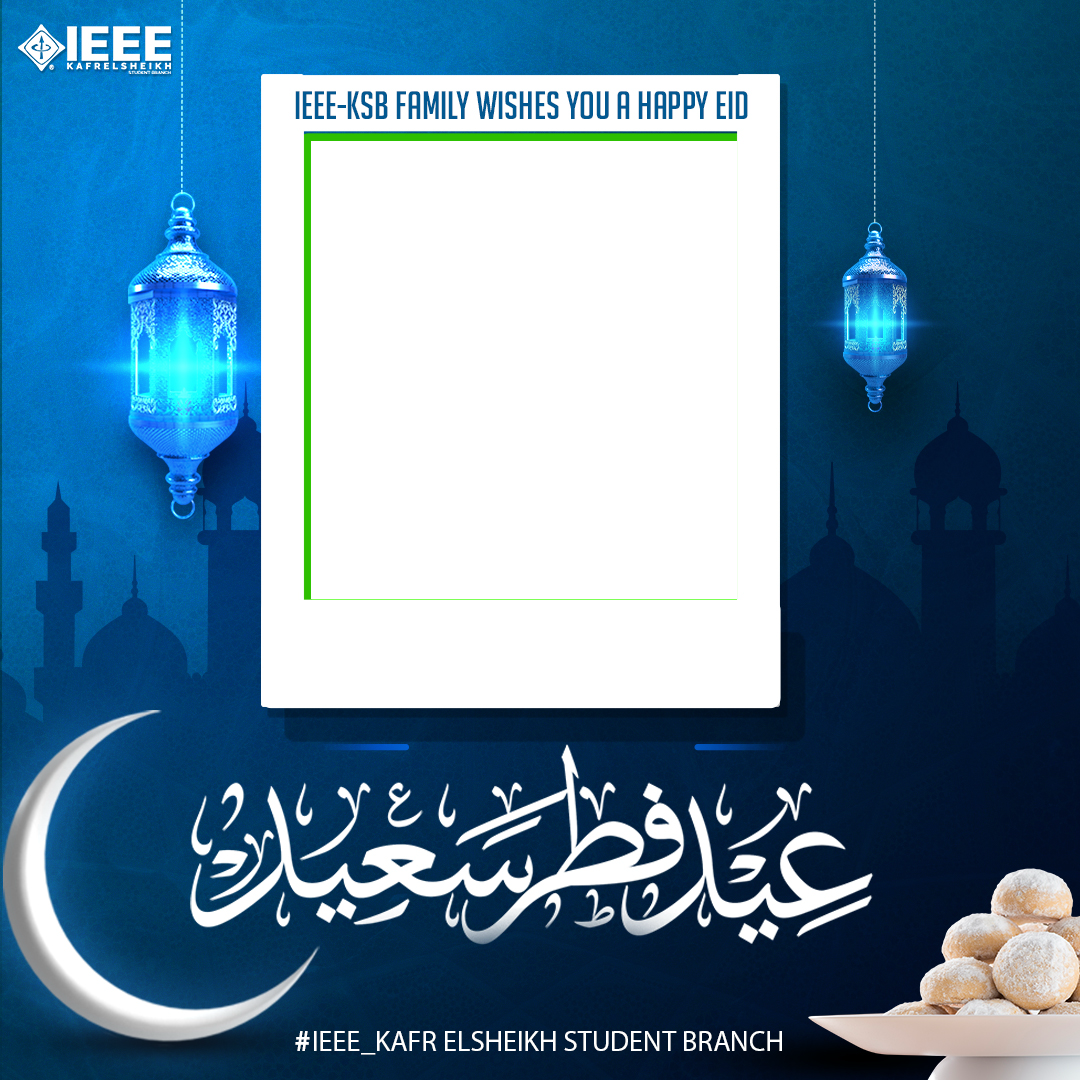
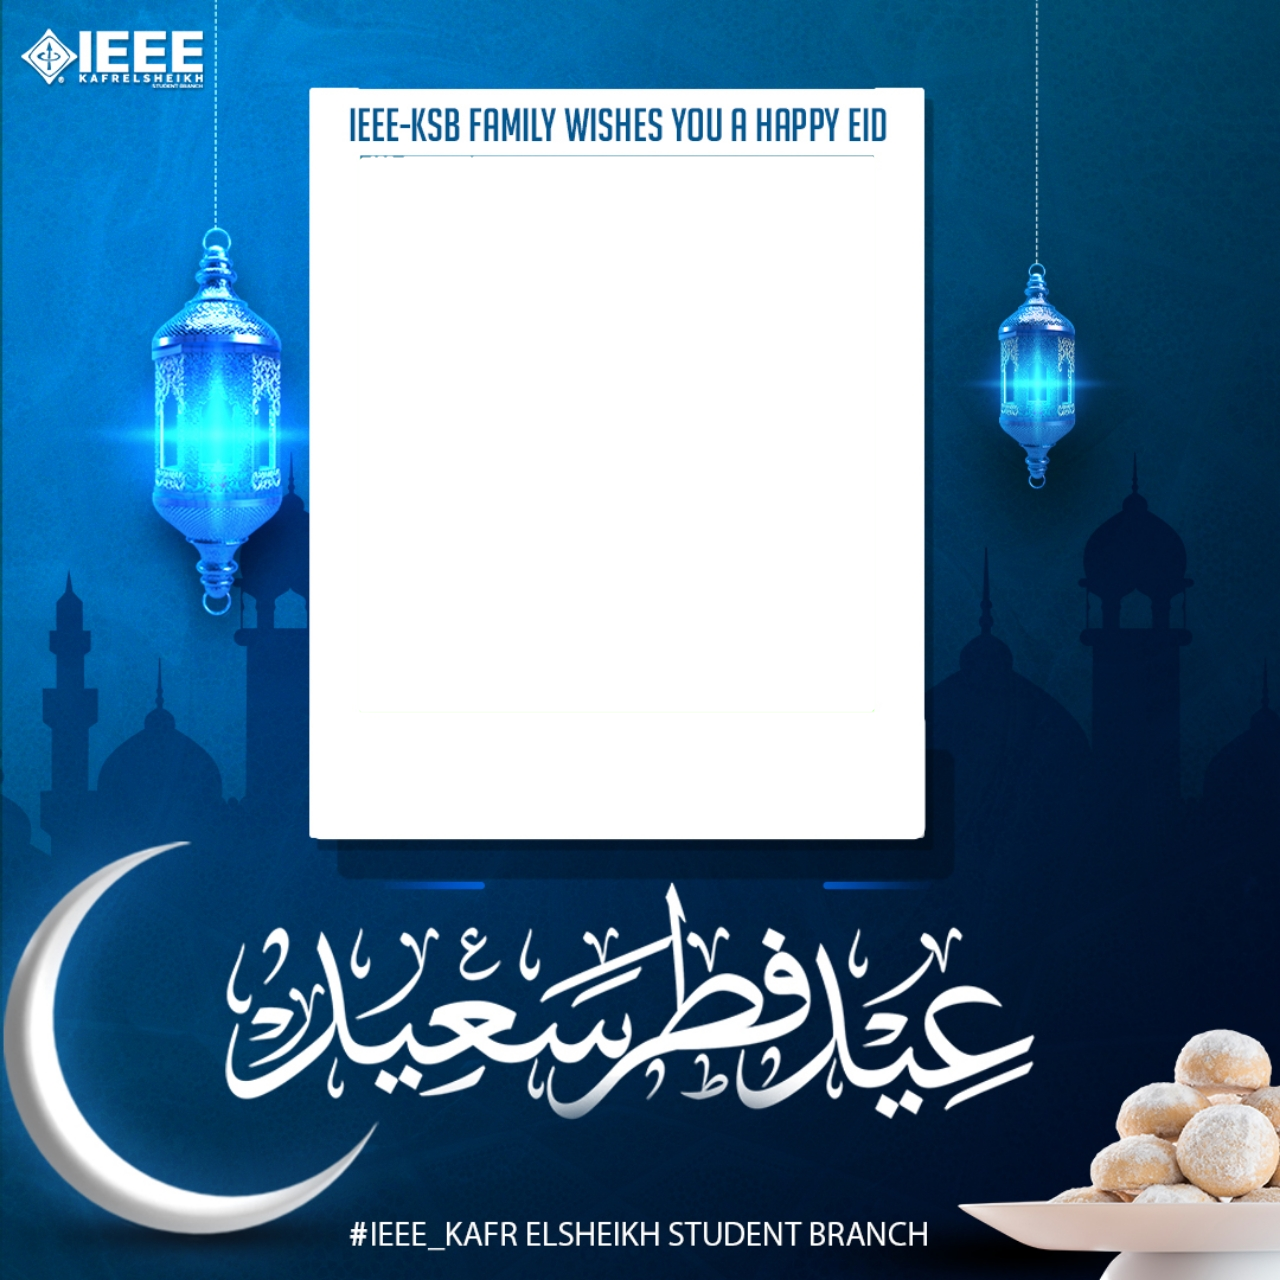
y8t

diff --git a/js/script.js b/js/script.js
@@ -8,8 +8,8 @@ document.addEventListener('DOMContentLoaded', function() {
     const outputImage = document.getElementById('outputImage');
     
     let cropper;
-    const requiredWidth = 445;
-    const requiredHeight = 470;
+    const requiredWidth = 555;
+    const requiredHeight = 605;
 
     uploadInput.addEventListener('change', function(e) {
         const file = e.target.files[0];
@@ -26,24 +26,23 @@ document.addEventListener('DOMContentLoaded', function() {
                 cropper = new Cropper(previewImage, {
                     aspectRatio: requiredWidth / requiredHeight,
                     viewMode: 1,
-                    autoCropArea: 0.8, // مساحة اقتصاص أولية 80%
+                    autoCropArea: 0.8,
                     responsive: true,
                     guides: true,
-                    movable: true, // تمكين الحركة لتعديل الموضع
+                    movable: true,
                     rotatable: false,
-                    scalable: true, // تمكين التكبير/التصغير
-                    zoomable: true, // تمكين الزوم
+                    scalable: true,
+                    zoomable: true,
                     zoomOnTouch: true,
                     zoomOnWheel: true,
                     cropBoxMovable: true,
                     cropBoxResizable: true,
-                    minCropBoxWidth: 100, // أصغر حجم مسموح
+                    minCropBoxWidth: 100,
                     minCropBoxHeight: 100,
                     ready() {
                         const containerData = cropper.getContainerData();
                         const aspectRatio = requiredWidth / requiredHeight;
                         
-                        // حساب الحجم الأولي بناءً على حجم الحاوية
                         let initWidth = containerData.width * 0.8;
                         let initHeight = initWidth / aspectRatio;
                         
@@ -58,7 +57,6 @@ document.addEventListener('DOMContentLoaded', function() {
                         });
                     },
                     crop(event) {
-                        // الحفاظ على النسبة الثابتة أثناء التعديل
                         if (event.detail.width) {
                             const newHeight = event.detail.width / (requiredWidth / requiredHeight);
                             cropper.setCropBoxData({
@@ -98,7 +96,6 @@ document.addEventListener('DOMContentLoaded', function() {
             canvas.width = templateImg.width;
             canvas.height = templateImg.height;
             
-            // الحصول على الصورة المقتطعة
             const croppedCanvas = cropper.getCroppedCanvas({
                 width: requiredWidth,
                 height: requiredHeight,
@@ -107,17 +104,17 @@ document.addEventListener('DOMContentLoaded', function() {
                 imageSmoothingQuality: 'high'
             });
             
-            const posX = canvas.width - requiredWidth - 340;
-            const posY = canvas.height - requiredHeight - 470;
+            const posX = canvas.width - requiredWidth - 380;
+            const posY = canvas.height - requiredHeight - 540;
             
             ctx.drawImage(croppedCanvas, posX, posY, requiredWidth, requiredHeight);
             ctx.drawImage(templateImg, 0, 0);
             
-            // إضافة النص
-            ctx.font = 'bold 40px Arial';
-            ctx.fillStyle = 'blue';
+            ctx.font = 'bold 60px Anton ';
+            ctx.fillStyle = '#06578d';
             ctx.textAlign = 'center';
-            ctx.fillText(nameInput.value, canvas.width / 2, 660); // 400 + 260
+            
+            ctx.fillText(nameInput.value, canvas.width / 2.1, 790);
             
             outputImage.src = canvas.toDataURL('image/png');
             downloadBtn.disabled = false;

diff --git a/css/style.css b/css/style.css
@@ -1,3 +1,4 @@
+@import url('https://fonts.googleapis.com/css2?family=Anton&display=swap');
 :root {
     --primary-color: #00629B;
     --secondary-color: #00B5E2;
